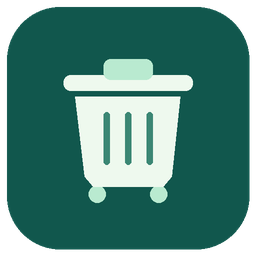
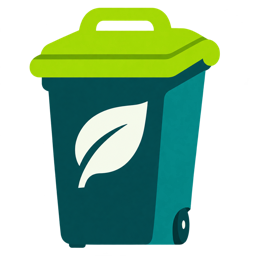
Přidat ikonu svozu odpadu se zapuštěným kolečkem

diff --git a/README.md b/README.md
@@ -1,4 +1,4 @@
-# JRK Digital pro Home Assistant
+# <img src="custom_components/jrk_digital/brand/icon.png" width="40" height="40" alt=""> JRK Digital pro Home Assistant
 
 [![Kontroly Home Assistantu, HACS a testy](https://github.com/CooLajz/ha-jrk-digital/actions/workflows/validate.yml/badge.svg?branch=main)](https://github.com/CooLajz/ha-jrk-digital/actions/workflows/validate.yml?query=branch%3Amain)
 
